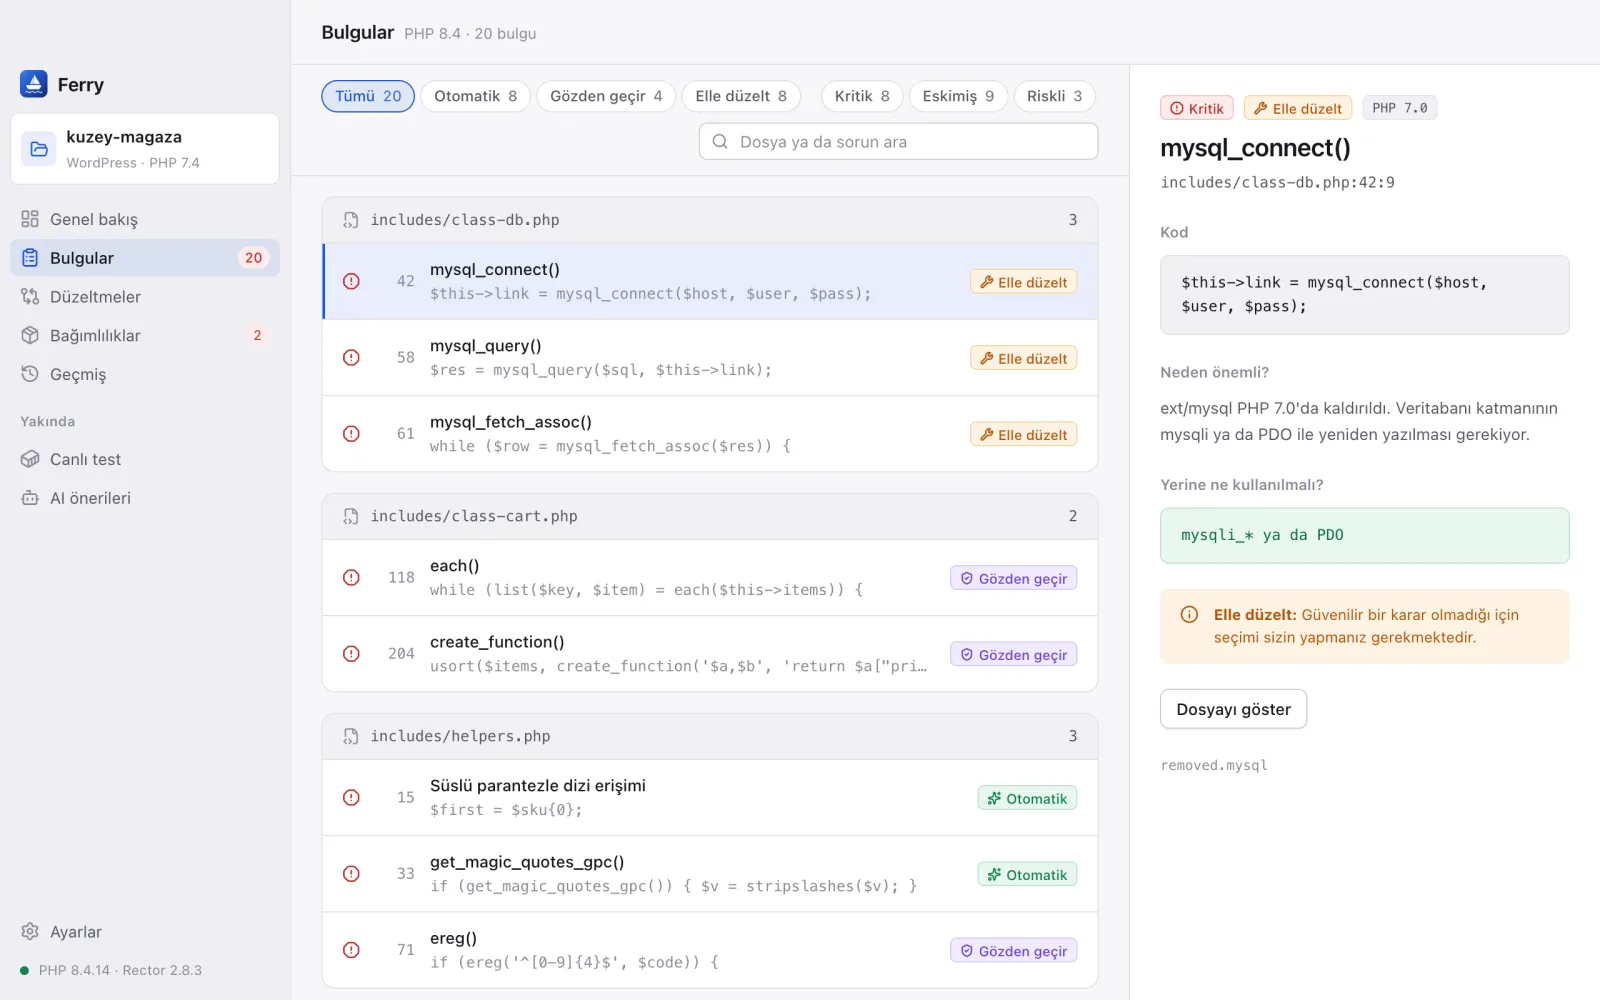
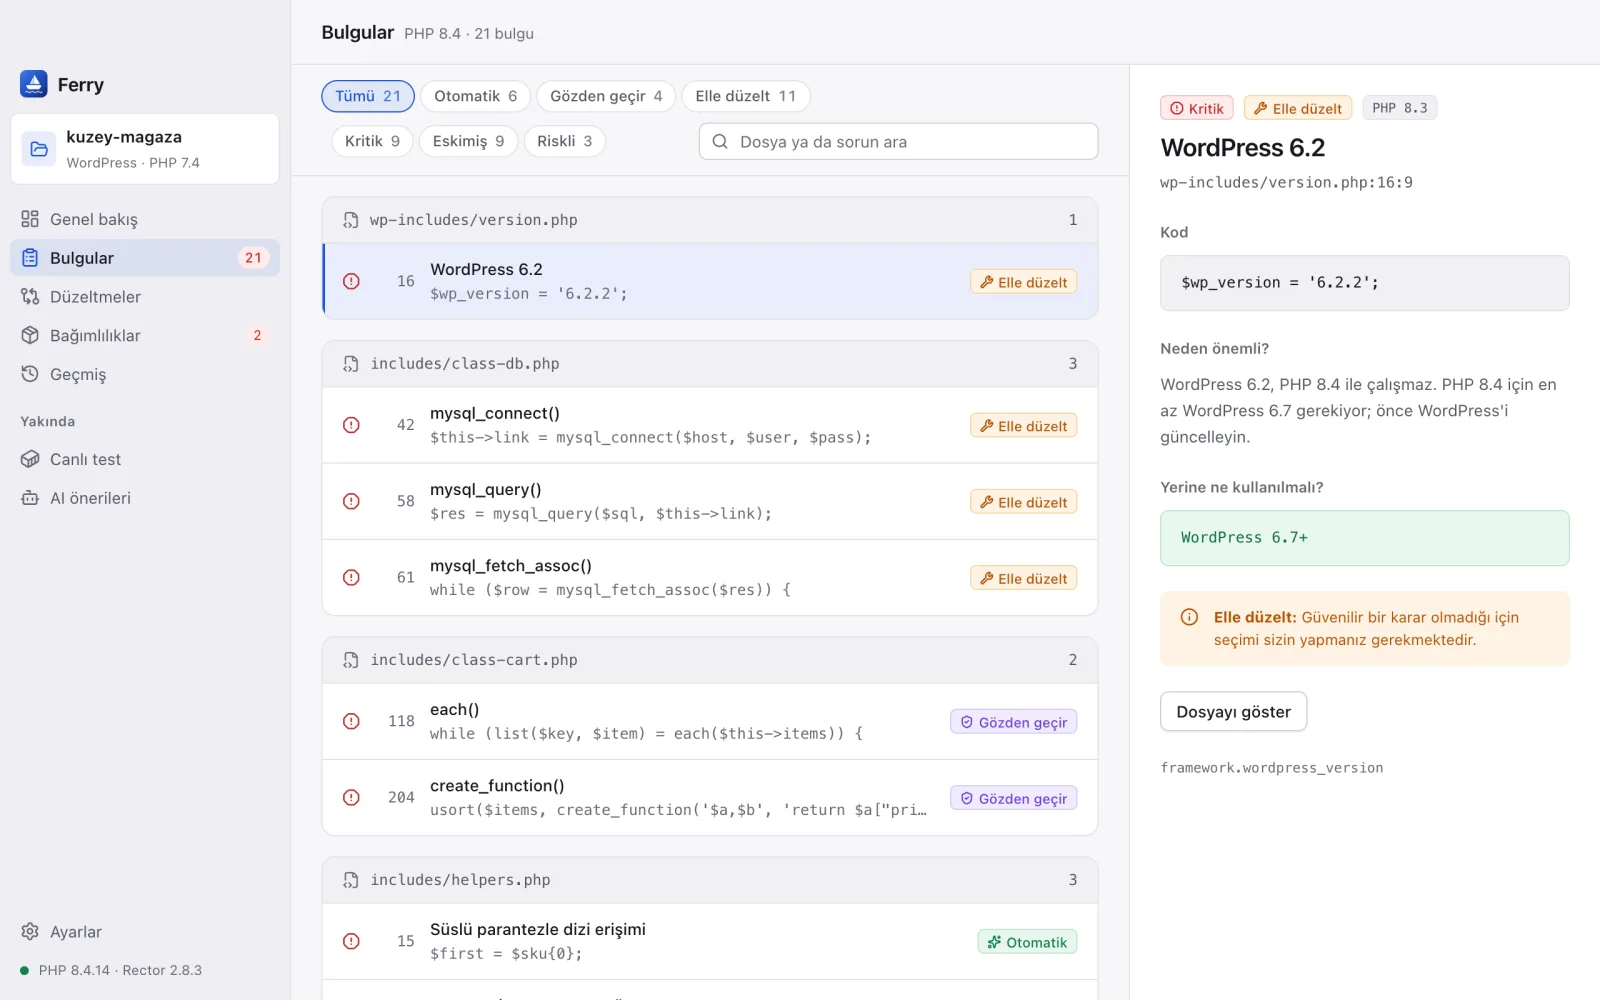
Show framework version blockers on the overview
A framework that doesn't support the target PHP version gets a callout
under the score and an Upgrade step in Next steps, instead of sitting
among the other findings. The demo data includes an old WordPress core,
and the README screenshots are regenerated.

diff --git a/src/screens/Overview.tsx b/src/screens/Overview.tsx
@@ -56,6 +56,7 @@ export function Overview() {
   const pct = progress && progress.total > 0 ? (progress.done / progress.total) * 100 : null;
   const s = scan?.summary;
   const blockers = dependencyBlockers(deps);
+  const frameworkBlockers = scan?.findings.filter((f) => f.ruleId.startsWith("framework.") && f.ruleId.endsWith("_version")) ?? [];
   const blockerText = blockers.root
     ? t.overview.rootBlocked(deps?.rootConstraint ?? "", target, blockers.packages)
     : t.overview.packagesBlocked(blockers.packages, target);
@@ -166,6 +167,15 @@ export function Overview() {
                 )}
               </Card>
 
+              {frameworkBlockers.map((f) => {
+                const [lead, ...rest] = loc(f.message).split(/(?<=\.) /);
+                return (
+                  <Callout key={f.id} tone={f.severity === "breaking" ? "danger" : "warn"} icon={<CircleAlert size={16} />}>
+                    <strong>{lead}</strong> {rest.join(" ")}
+                  </Callout>
+                );
+              })}
+
               <div className="grid-4">
                 <Metric label={t.severity.breaking} value={s.breaking} hint={t.overview.metrics.breakingHint} tone="var(--danger-fg)" onClick={() => setView("findings")} />
                 <Metric label={t.severity.deprecated} value={s.deprecated} hint={t.overview.metrics.deprecatedHint} tone="var(--risk-manual-fg)" onClick={() => setView("findings")} />
@@ -214,6 +224,20 @@ export function Overview() {
                 <Card title={t.overview.nextSteps} bodyClassName="">
                   <div className="steps" style={{ paddingTop: "var(--space-2)" }}>
                     <Step state="done" icon={<Check size={14} />} title={t.overview.scanDone} desc={t.overview.classified(s.total)} />
+                    {frameworkBlockers.map((f) => (
+                      <Step
+                        key={f.id}
+                        state="active"
+                        icon={<CircleAlert size={14} />}
+                        title={t.overview.upgradeFramework(loc(f.title).replace(/\s+[\d.]+$/, ""))}
+                        desc={f.replacement ? loc(f.replacement) : loc(f.message)}
+                        action={
+                          <Button size="sm" variant="ghost" onClick={() => setView("findings")}>
+                            {t.overview.inspect}
+                          </Button>
+                        }
+                      />
+                    ))}
                     <Step
                       state={preview ? "done" : "active"}
                       icon={preview ? <Check size={14} /> : <Sparkles size={14} />}

diff --git a/src/lib/mock.ts b/src/lib/mock.ts
@@ -45,6 +45,7 @@ const NULLABLE_REPL = L("?Tip $param = null", "?Type $param = null");
 type Seed = Omit<Finding, "id" | "column">;
 
 const SEEDS: Seed[] = [
+  { file: "wp-includes/version.php", line: 16, ruleId: "framework.wordpress_version", title: same("WordPress 6.2"), message: L("WordPress 6.2, PHP 8.4 ile çalışmaz. PHP 8.4 için en az WordPress 6.7 gerekiyor; önce WordPress'i güncelleyin.", "WordPress 6.2 doesn't run on PHP 8.4. PHP 8.4 needs at least WordPress 6.7; update WordPress first."), since: "8.3", severity: "breaking", fix: "manual", replacement: same("WordPress 6.7+"), snippet: "$wp_version = '6.2.2';" },
   { file: "includes/class-db.php", line: 42, ruleId: "removed.mysql", title: same("mysql_connect()"), message: MYSQL, since: "7.0", severity: "breaking", fix: "manual", replacement: MYSQL_REPL, snippet: "$this->link = mysql_connect($host, $user, $pass);" },
   { file: "includes/class-db.php", line: 58, ruleId: "removed.mysql", title: same("mysql_query()"), message: MYSQL, since: "7.0", severity: "breaking", fix: "manual", replacement: MYSQL_REPL, snippet: "$res = mysql_query($sql, $this->link);" },
   { file: "includes/class-db.php", line: 61, ruleId: "removed.mysql", title: same("mysql_fetch_assoc()"), message: MYSQL, since: "7.0", severity: "breaking", fix: "manual", replacement: MYSQL_REPL, snippet: "while ($row = mysql_fetch_assoc($res)) {" },

diff --git a/src/test/app.test.tsx b/src/test/app.test.tsx
@@ -34,6 +34,17 @@ describe("Ferry app", () => {
     expect(screen.getByText("Ciddi bir geçiş gerekiyor")).toBeInTheDocument();
     expect(JSON.parse(localStorage.getItem("ferry.recent")!)[0].name).toBe("kuzey-magaza");
     expect(screen.getByText("mysql_*()")).toBeInTheDocument();
+    expect(screen.getByRole("alert")).toHaveTextContent("WordPress 6.2, PHP 8.4 ile çalışmaz.");
+    expect(screen.getByText("WordPress sürümünü yükseltin")).toBeInTheDocument();
+  });
+
+  it("drops the framework warning for targets the framework supports", async () => {
+    const user = setup();
+    await openAndScan(user);
+    await user.click(screen.getByRole("radio", { name: "8.2" }));
+    await user.click(screen.getByRole("button", { name: /Taramayı başlat/ }));
+    await screen.findByRole("img", { name: /Hazırlık skoru/ });
+    expect(screen.queryByRole("alert")).not.toBeInTheDocument();
   });
 
   it("changing the target version clears stale results", async () => {

diff --git a/src/i18n/tr.ts b/src/i18n/tr.ts
@@ -128,6 +128,7 @@ export const tr = {
       `composer.json'daki PHP kısıtı (${c}) PHP ${t} ile uyumlu değil${n ? `; ayrıca ${n} paket uyumsuz` : ""}.`,
     packagesBlocked: (n: number, t: string) => `${n} paket PHP ${t} ile çalışmıyor.`,
     noBlockers: "Bilinen bir engel yok.",
+    upgradeFramework: (name: string) => `${name} sürümünü yükseltin`,
     inspect: "İncele",
     resolveManual: "Elle düzeltilecekleri çöz",
     manualLeft: (n: number) => `${n} bulgu sizin kararınızı bekliyor.`,

diff --git a/src/i18n/en.ts b/src/i18n/en.ts
@@ -128,6 +128,7 @@ export const en: Dict = {
     rootBlocked: (c, t, n) =>
       `The PHP constraint in composer.json (${c}) doesn't allow PHP ${t}${n ? `; ${n} packages are incompatible too` : ""}.`,
     packagesBlocked: (n, t) => `${n} packages don't support PHP ${t}.`,
+    upgradeFramework: (name: string) => `Upgrade ${name}`,
     noBlockers: "No known blockers.",
     inspect: "Review",
     resolveManual: "Resolve the manual ones",
